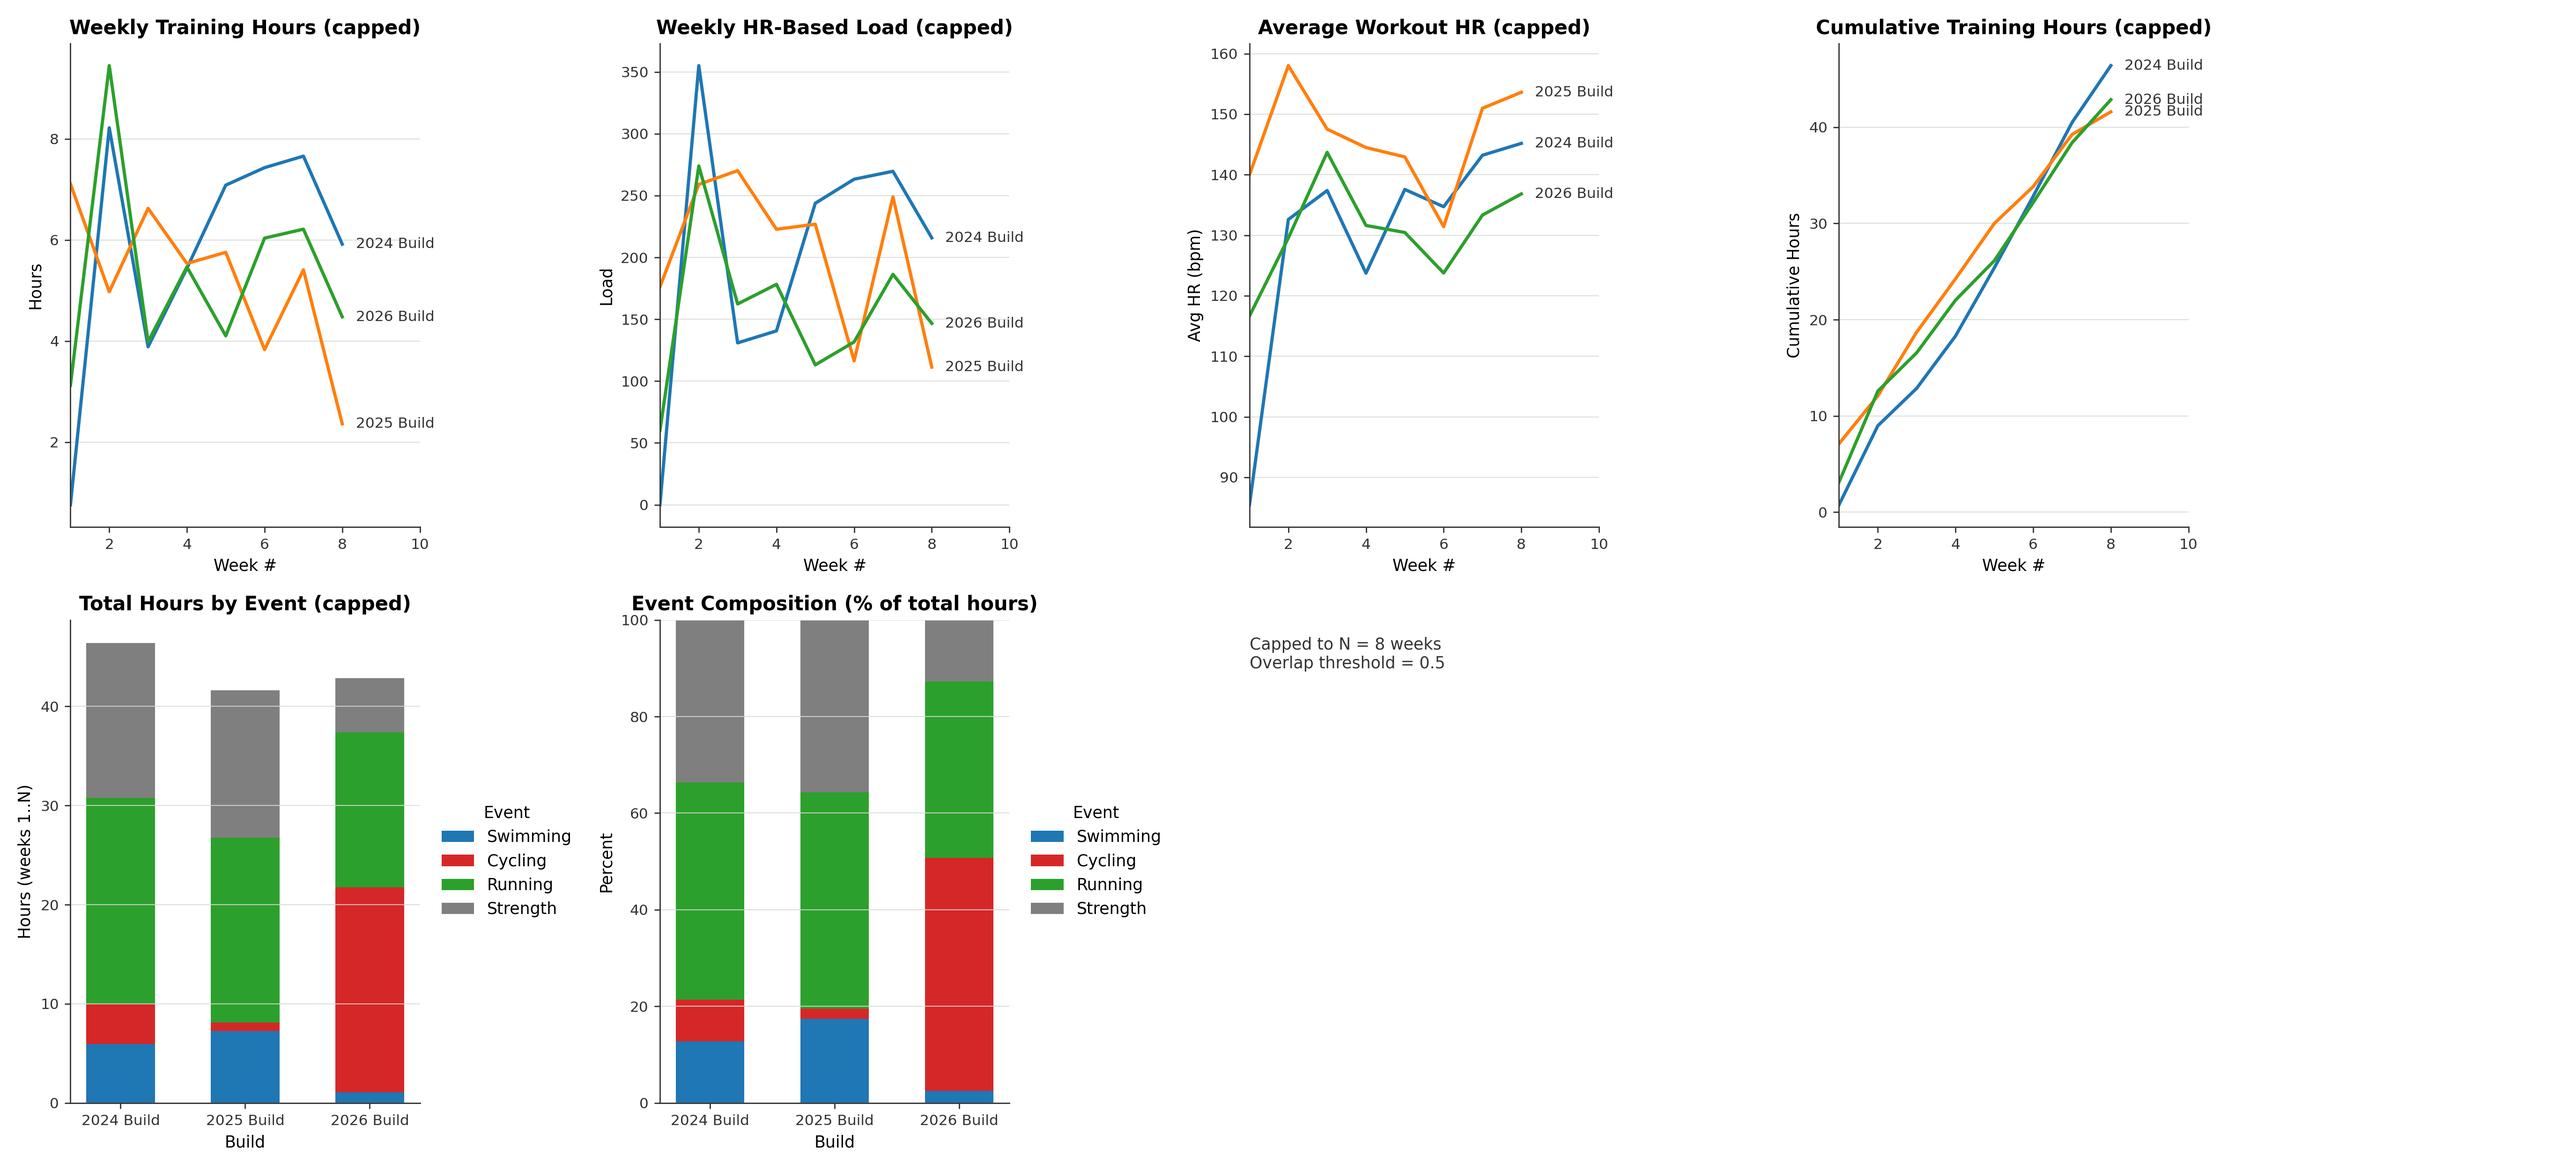
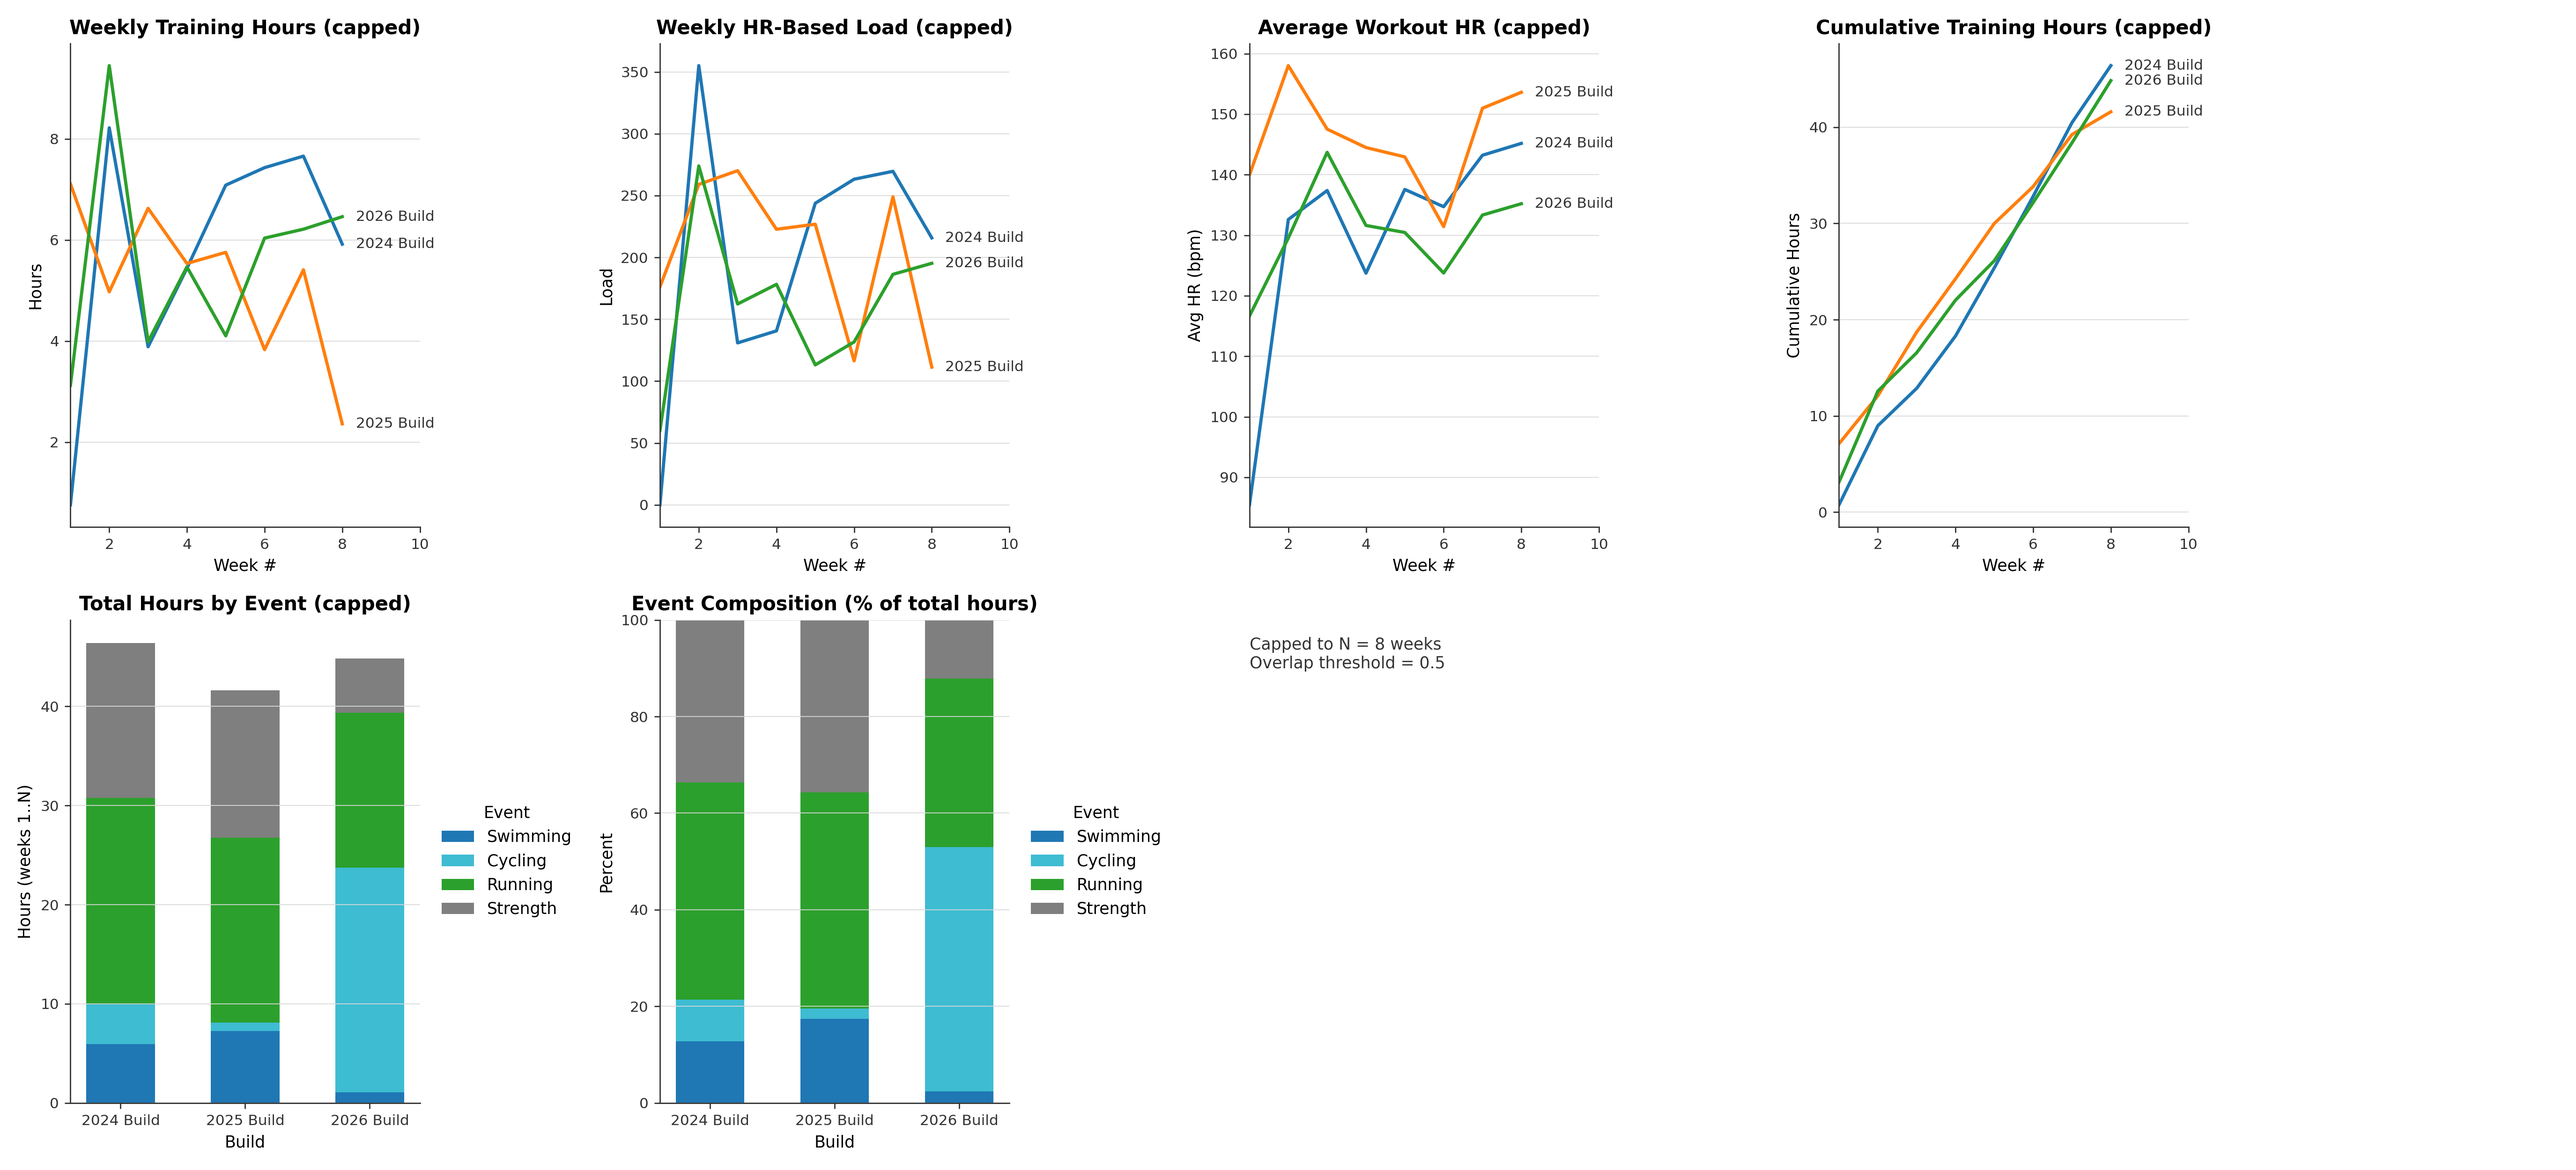
Added FASTMODE to only run the plots and not preprocess the data for more efficient editing of output.

diff --git a/run_pipeline.py b/run_pipeline.py
@@ -14,6 +14,8 @@ XML_PATH = BASE_DIR / "data" / "export.xml"
 OUT_DIR = BASE_DIR / "out"
 OUT_DIR.mkdir(exist_ok=True)
 
+FAST_MODE = False  # set False when you need to reprocess XML
+
 # Your build windows
 BUILDS = {
     "2024 Build": ("2024-04-28", "2024-09-28"),
@@ -403,9 +405,33 @@ def save_one_comparison_table(weekly_df: pd.DataFrame) -> Path:
 
 
 def main():
+    if FAST_MODE:
+        print("FAST MODE: skipping XML parsing")
+
+        enriched_path = OUT_DIR / "workouts_enriched.csv"
+        weekly_path = OUT_DIR / "weekly_df.csv"
+
+        if not enriched_path.exists():
+            raise FileNotFoundError(f"Missing {enriched_path}. Run FULL MODE once to generate it.")
+        if not weekly_path.exists():
+            raise FileNotFoundError(f"Missing {weekly_path}. Run FULL MODE once to generate it.")
+
+        print("1) Reading enriched workouts + weekly summaries...")
+        enriched = pd.read_csv(enriched_path, parse_dates=["startDate", "endDate"])
+        weekly_df = pd.read_csv(weekly_path, parse_dates=["week"])
+
+        print("2) Saving dashboard plot...")
+        plot_path = save_dashboard_plot(weekly_df, enriched)
+        print(f"   saved: {plot_path}")
+
+        print("\nDone.")
+        return
+
+    # -------- FULL MODE --------
     if not XML_PATH.exists():
         raise FileNotFoundError(f"Cannot find {XML_PATH}. Put export.xml at data/export.xml")
 
+    print("FULL MODE: parsing export.xml")
     print(f"Reading: {XML_PATH}")
 
     print("1) Exporting workouts (with distance stats when present)...")
@@ -426,7 +452,10 @@ def main():
     enriched["endDate"] = enriched["endDate"].dt.tz_localize(None)
 
     print("4) Merging cycling duplicates (keep Strava + merge Watch HR)...")
-    enriched = merge_cycling_duplicates_keep_strava_merge_hr(enriched, overlap_threshold=OVERLAP_THRESHOLD)
+    enriched = merge_cycling_duplicates_keep_strava_merge_hr(
+        enriched,
+        overlap_threshold=OVERLAP_THRESHOLD,
+    )
 
     print("5) Computing load...")
     enriched = add_load(enriched)
@@ -436,6 +465,8 @@ def main():
 
     print("6) Building weekly summaries...")
     weekly_df = build_weekly_df(enriched)
+    weekly_df.to_csv(OUT_DIR / "weekly_df.csv", index=False)
+    print(f"   saved: {OUT_DIR / 'weekly_df.csv'}")
 
     print("7) Saving capped comparison table...")
     table_path = save_one_comparison_table(weekly_df)
@@ -494,7 +525,7 @@ def save_dashboard_plot(weekly_df: pd.DataFrame, enriched: pd.DataFrame) -> Path
     # Muted palette for event stacks (explicit to avoid garish defaults)
     EVENT_COLORS = {
         "Swimming":  "#1f77b4",  # muted blue
-        "Cycling":   "#d62728",  # muted red
+        "Cycling":   "#3ebcd2",  # muted cyan
         "Running":   "#2ca02c",  # muted green
         "Strength":  "#7f7f7f",  # neutral gray
     }
